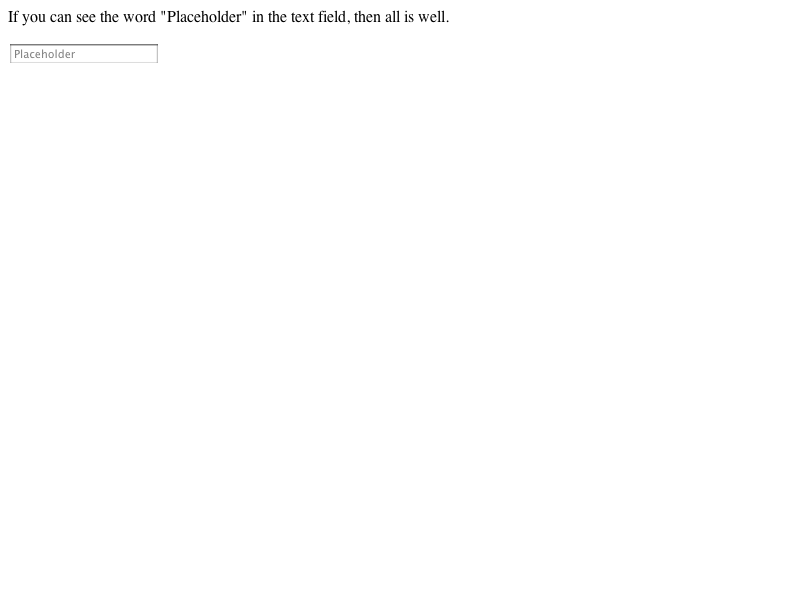
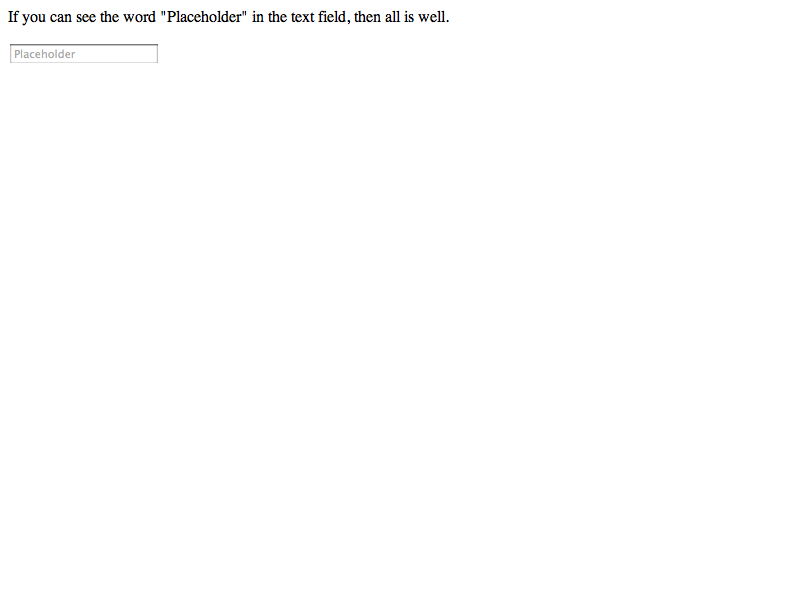
WebCore:
2008-09-30  Adele Peterson  <adele@apple.com>

        Reviewed by Darin Adler.

        Fix for https://bugs.webkit.org/show_bug.cgi?id=21227
        <rdar://problem/6222134> add a way to set color for input placeholder text

        Test: fast/forms/placeholder-pseudo-style.html

        This change adds "-webkit-input-placeholder-mode" as a pseudo class that can be used to style
        input elements when they are displaying the placeholder text.

        * css/CSSSelector.cpp: (WebCore::CSSSelector::extractPseudoType): Add case for inputPlaceholderMode.
        * css/CSSSelector.h: (WebCore::CSSSelector::): Add PseudoInputPlaceholderMode.
        * css/CSSStyleSelector.cpp: (WebCore::CSSStyleSelector::SelectorChecker::checkOneSelector):
        Add check for PseudoInputPlaceholderMode that asks the node if placeholderShouldBeVisible is true.
        * css/html4.css: Add rule to make placeholder text default to darkGray.

        * html/HTMLInputElement.cpp:
        (WebCore::HTMLInputElement::init): Initialize m_placeholderShouldBeVisible.
        (WebCore::HTMLInputElement::dispatchFocusEvent): Call updatePlaceholderVisibility.
        (WebCore::HTMLInputElement::dispatchBlurEvent): ditto.
        (WebCore::HTMLInputElement::parseMappedAttribute): ditto.
        (WebCore::HTMLInputElement::setValue): ditto.
        (WebCore::HTMLInputElement::setValueFromRenderer): ditto.
[…]

Changed region(s): [[0.0, 0.0, 0.5625, 0.06], [0.0312, 0.09, 0.0938, 0.12]]

diff --git a/fast/forms/password-placeholder-text-security.html b/fast/forms/password-placeholder-text-security.html
@@ -1,0 +1,36 @@
+<html>
+    <head>
+        <script>
+            function test()
+            {
+                if (window.layoutTestController)
+                    layoutTestController.waitUntilDone();
+                    
+                // 1) leave field 1 alone. It should show the placeholder text.
+                // 2) focus field 2 and type.  It should show bullets for the password.
+                    var password = document.getElementById("pass2");
+                    password.focus();
+                    document.execCommand("InsertText", false, "test");
+                // 3) focus field 3 and type.  Clear the value and blur the field.  It should show the placeholder text.
+                    password = document.getElementById("pass3");
+                    password.focus();
+                    document.execCommand("InsertText", false, "test");
+                    password.value = "";
+                    password.blur();
+
+                if (window.layoutTestController)
+                    layoutTestController.notifyDone();
+            }
+            function log(msg)
+            {
+                document.getElementById('console').appendChild(document.createTextNode(msg + "\n"));
+            }
+        </script>
+    </head>
+    <body onload="test()">
+        This tests that the text security mode switches correctly when the placeholder appears and disappears.<br>
+        Leave field 1 alone. It should show the placeholder text: <input type="password" id="pass1" placeholder="placeholder"><br>
+        Focus field 2 and type.  It should show bullets for the password.: <input type="password" id="pass2" placeholder="placeholder"><br>
+        Focus field 3 and type.  Clear the value and blur the field.  It should show the placeholder text: <input type="password" id="pass3" placeholder="placeholder"><br>
+    </body>
+</html>

diff --git a/fast/forms/placeholder-pseudo-style.html b/fast/forms/placeholder-pseudo-style.html
@@ -1,0 +1,12 @@
+<style>
+input.red:-webkit-input-placeholder-mode {
+    color: rgb(100, 0, 0);
+}
+</style>
+This tests that you can set the placeholder text color.<br>
+<input class="red" placeholder="text">
+<input class="red" type="search" placeholder="search">
+<input class="red" type="password" placeholder="password">
+<input class="red" disabled placeholder="disabled text">
+<input placeholder="default">
+<input placeholder="default disabled">
